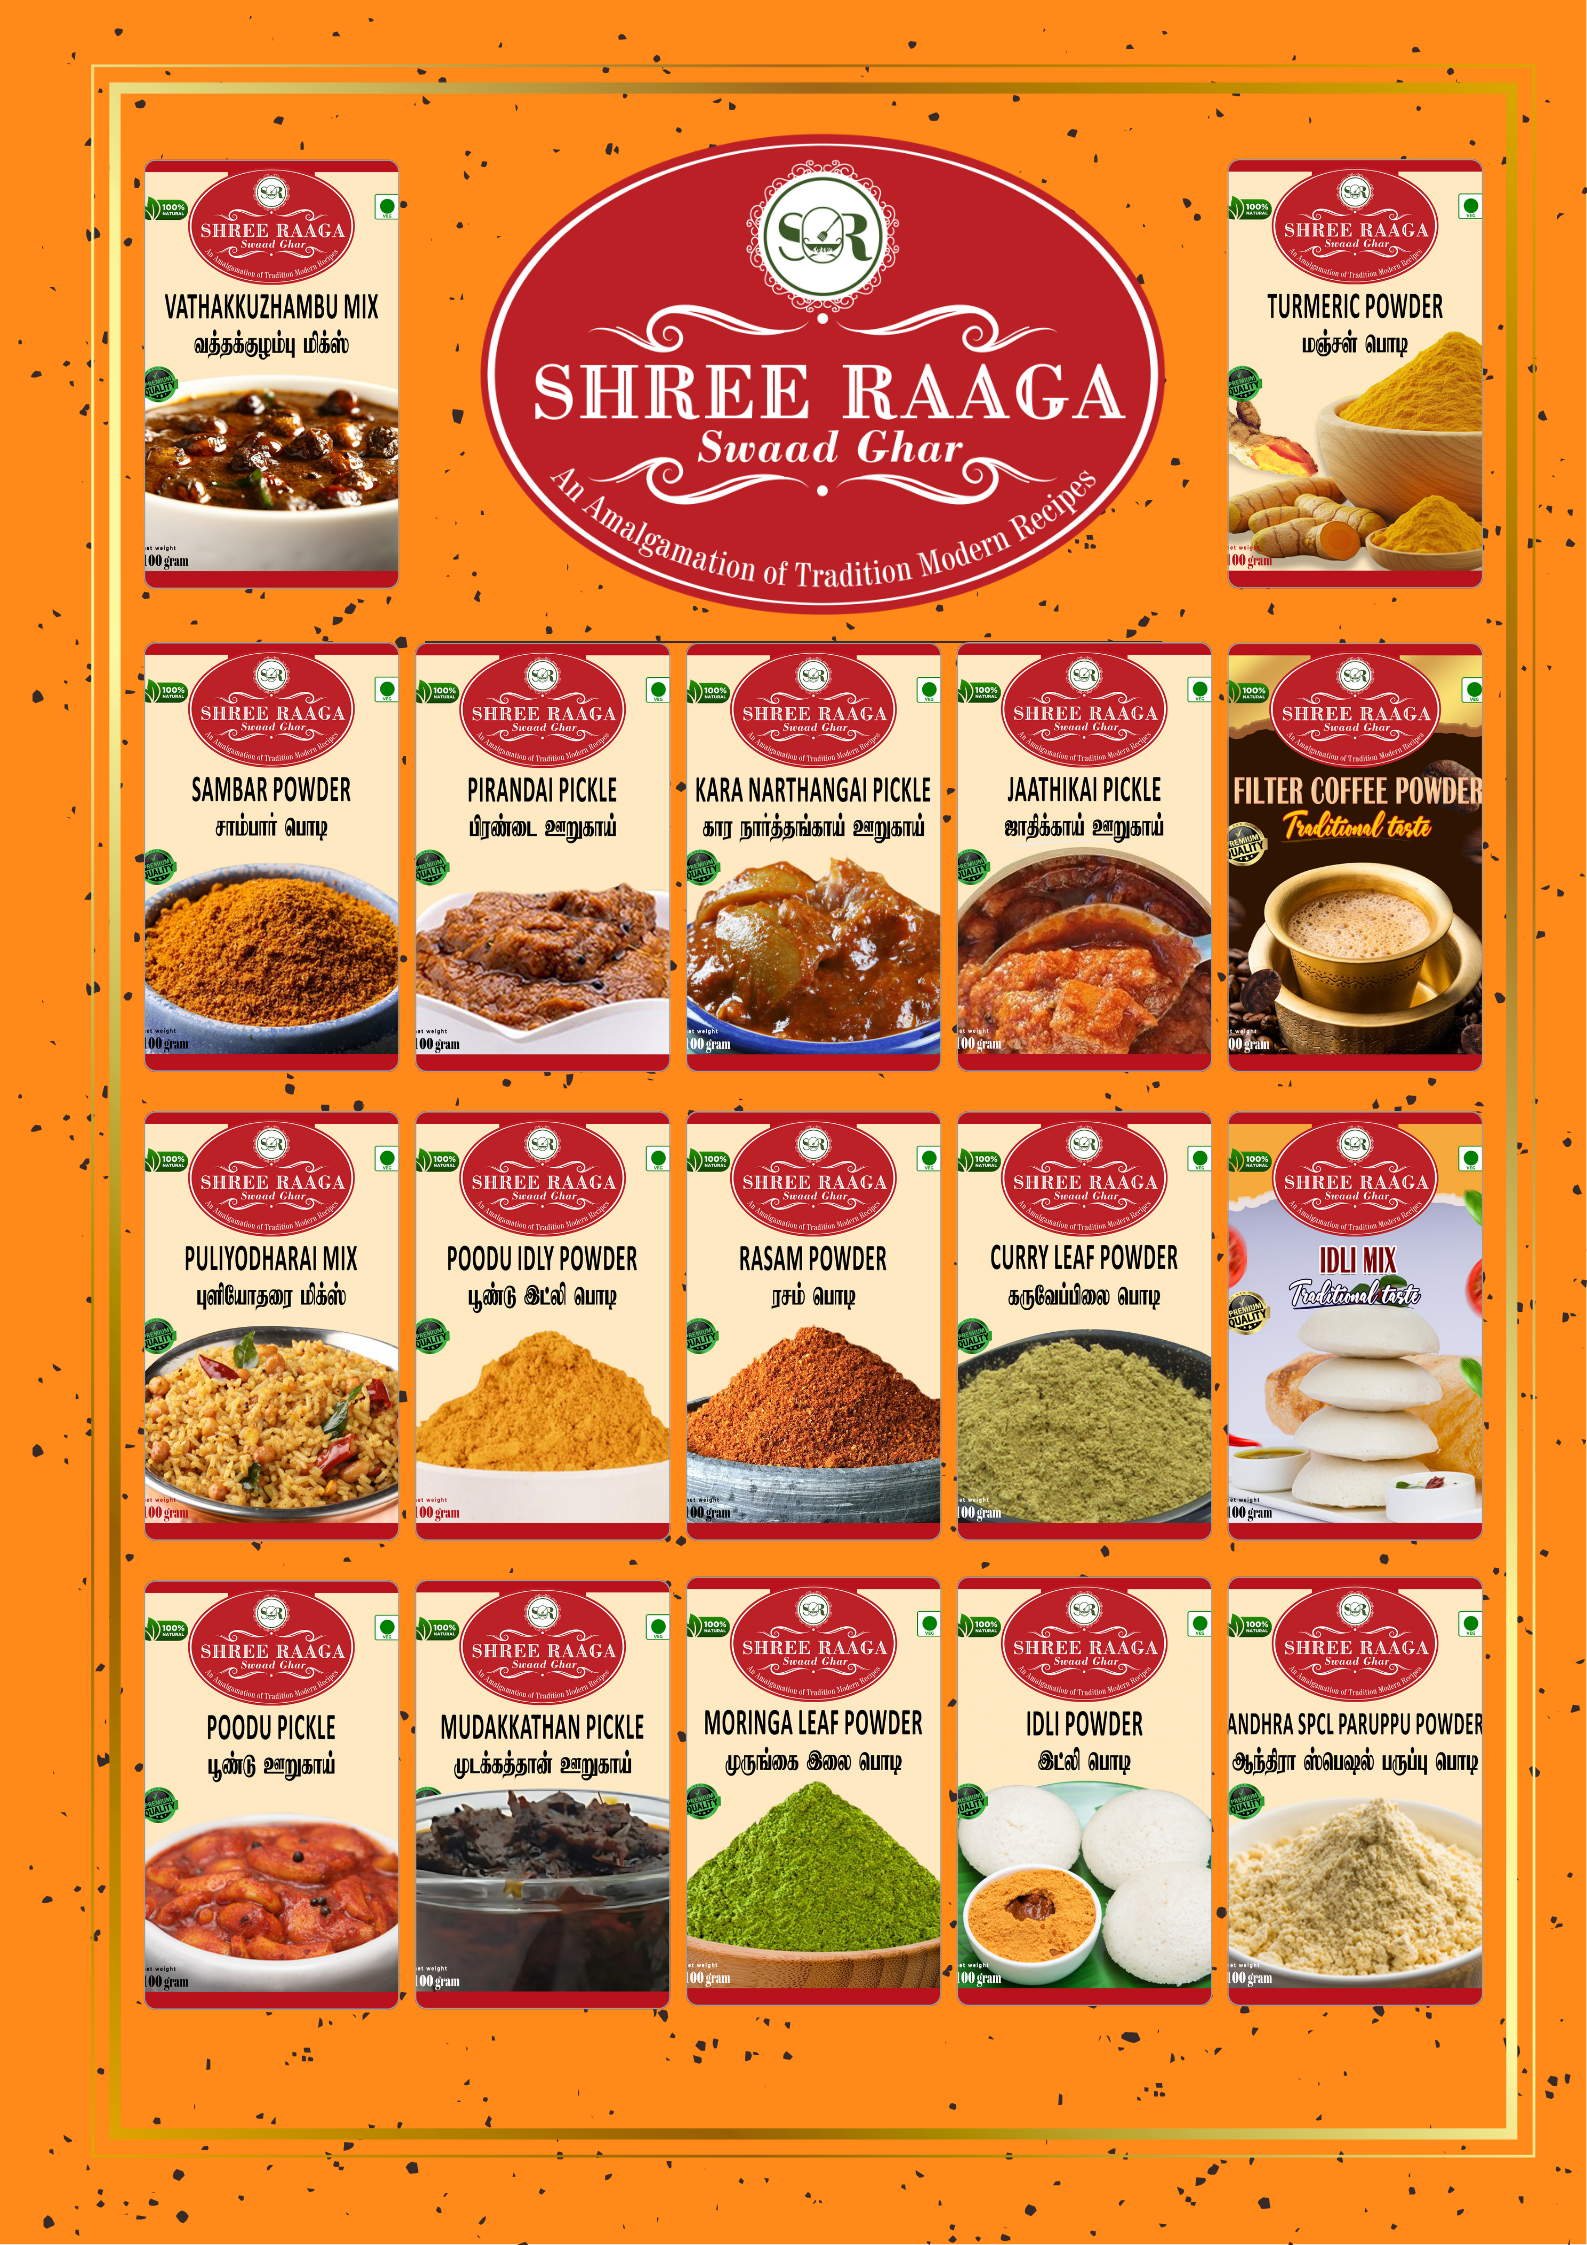
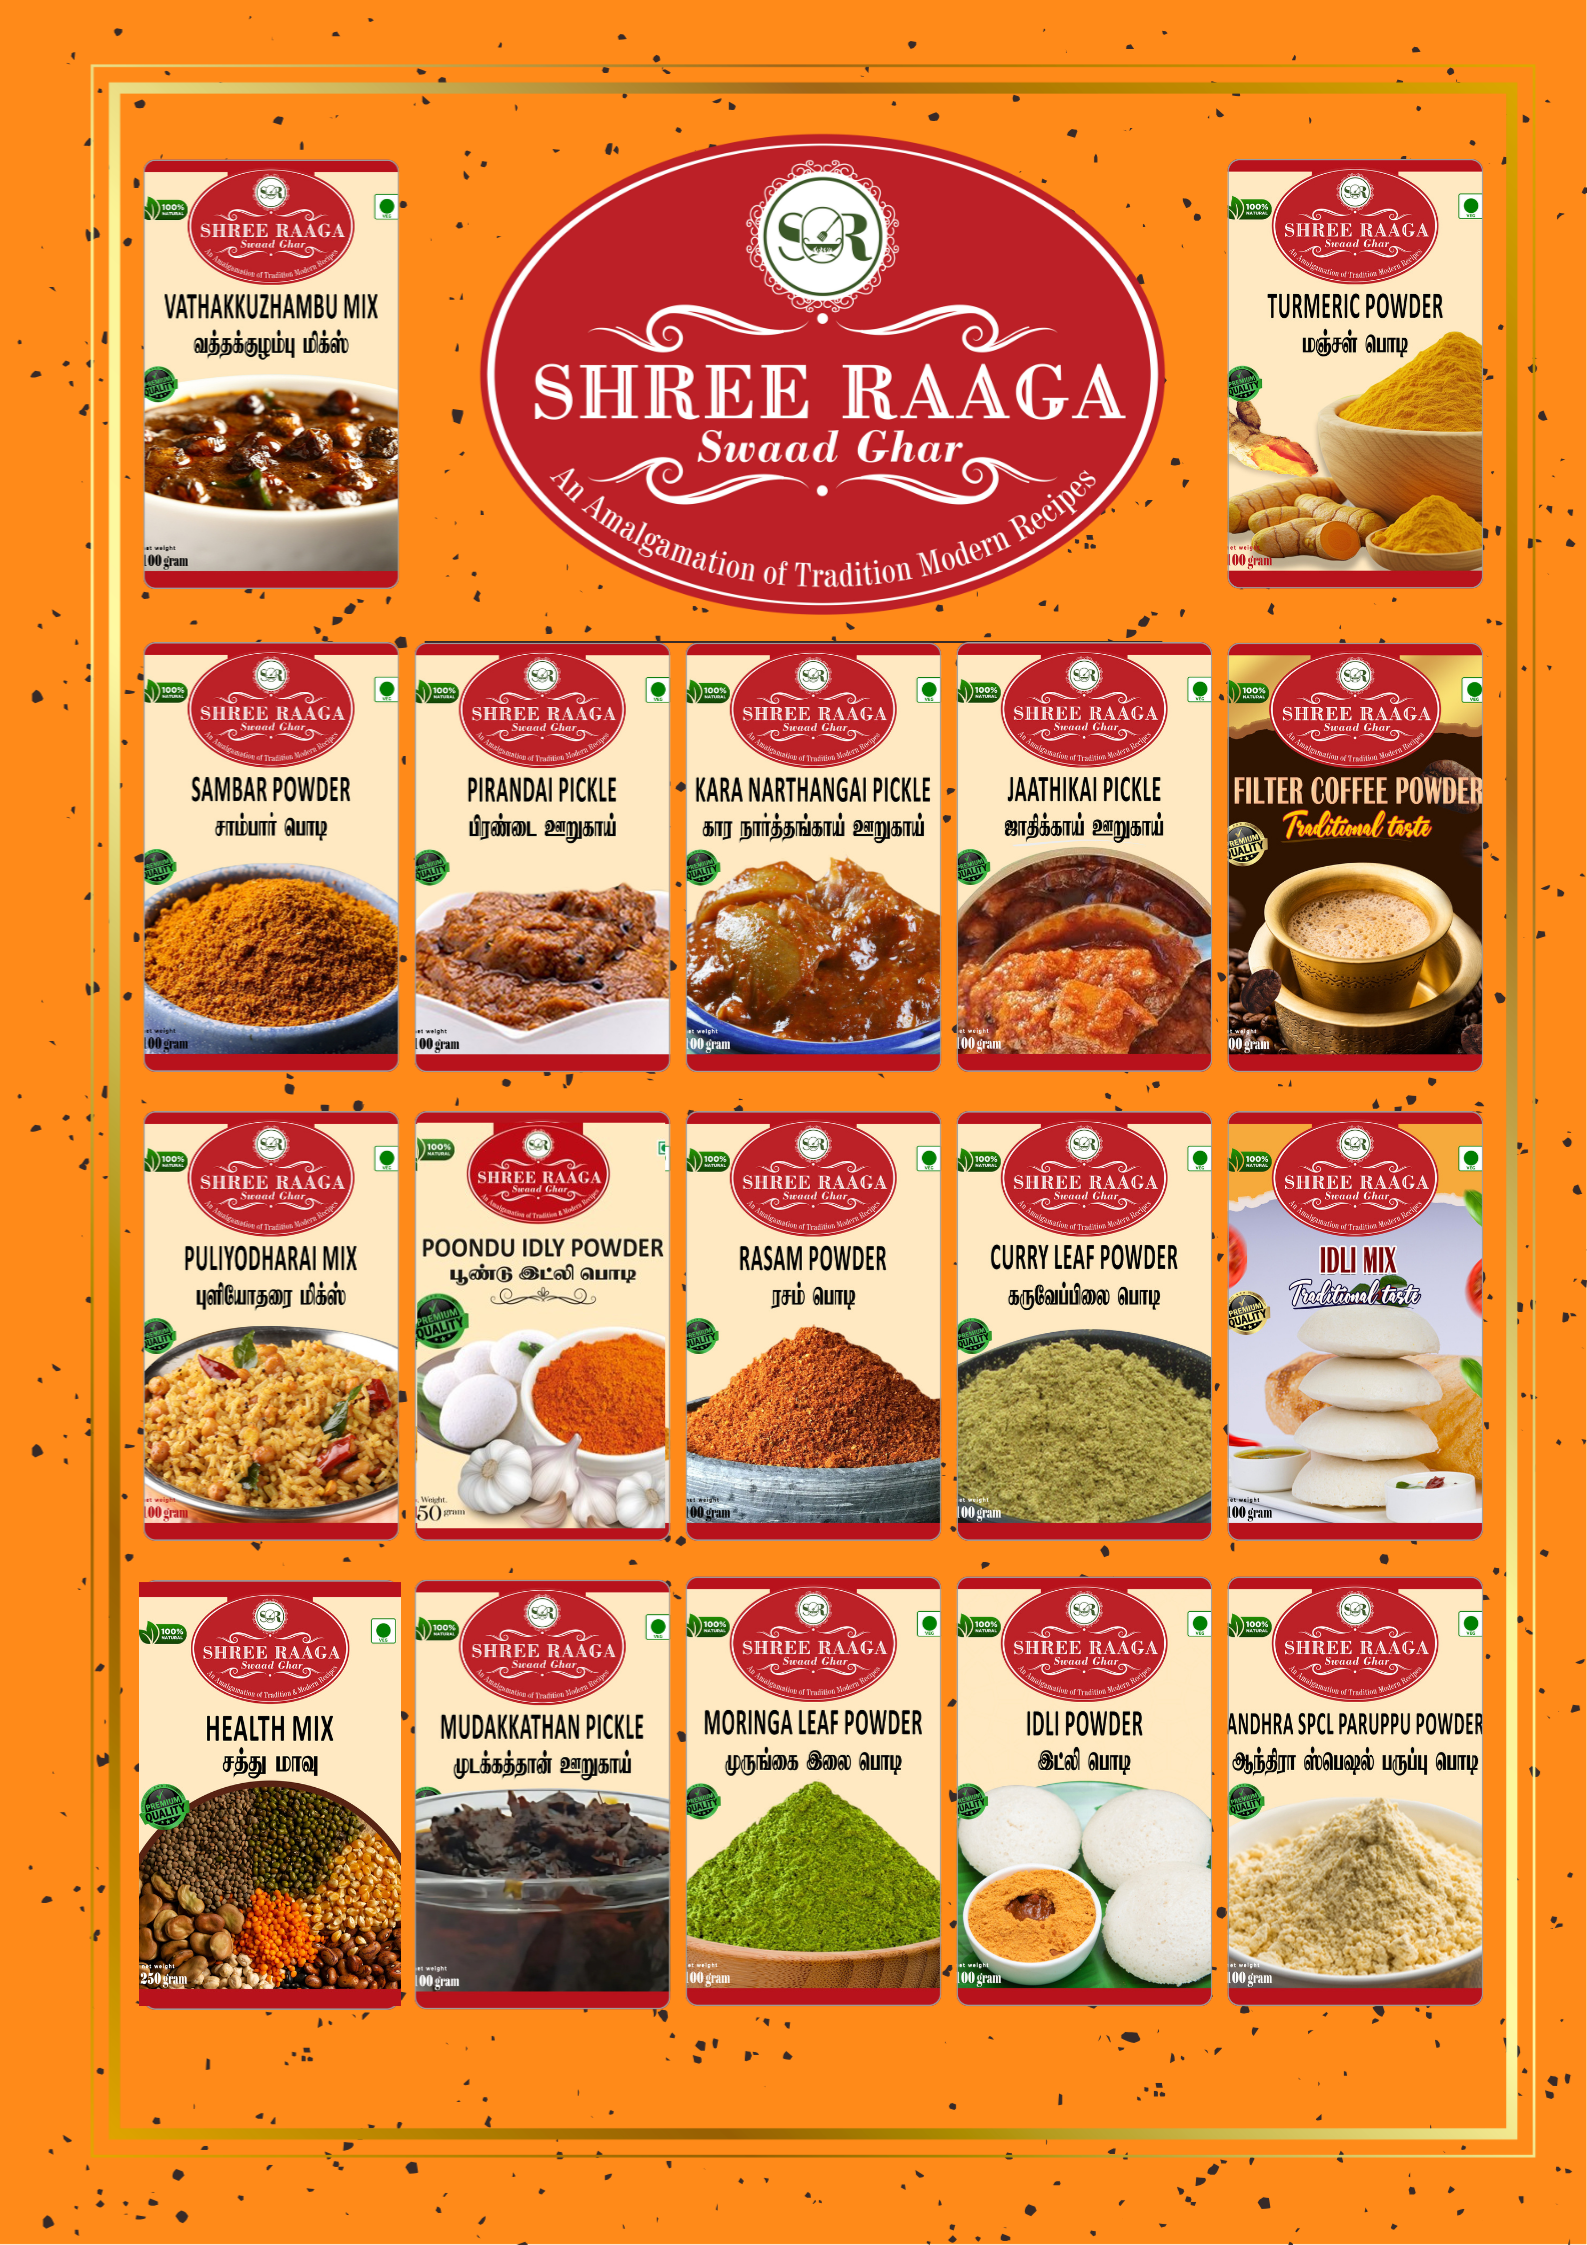
Update product names, images, and prices
- Renamed 'Kizhangu appalam' to 'Maravalli Kizhangu appalam'
- Added image override for Maravalli Kizhangu appalam
- Updated all product prices:
  * Puliyotharai Mix: 130
  * Vathakkuzhambu Mix: 130
  * Health Mix: 190 (250g), 370 (500g)
  * Turmeric Powder: 130
  * Poondu Idli Powder: 160
  * Andra Spl Paruppu Powder: 180
  * Coffee Powder: 500
  * Ulundhu appalam: 70
  * Rice appalam: 82
  * Maravalli Kizhangu appalam: 70
  * Vathal: 130

diff --git a/frontend/src/components/Homepage.tsx b/frontend/src/components/Homepage.tsx
@@ -33,6 +33,7 @@ import { getProductPrice, isProductAvailable } from '../data/availability';
 import { hasUserClaimedFirstOrderDiscount } from '../hooks/useFirstOrderPopup';
 import { getShortDescription } from '../data/shortDescriptions';
 import { getImageOverride } from '../data/imageOverrides';
+import mobileHero from '../../Images/100/Mobile.png';
 
 // Custom CSS for premium styling
 const customStyles = `
@@ -347,6 +348,19 @@ const Homepage: React.FC = () => {
     return item.includes(':') ? item.split(':')[0].trim() : item;
   };
 
+  // Helper to detect products that already have proper images & full flows
+  const hasImageProduct = (title: string): boolean => {
+    const lower = title.toLowerCase();
+    const isVathak = lower.includes('vathakkuzhambu') || lower.includes('vathakulambu');
+    const isPuliyo = lower.includes('puliyotharai') || lower.includes('puliodharai');
+    const isPoondu = (lower.includes('poondu') || lower.includes('poondhu')) && (lower.includes('idli') || lower.includes('idly'));
+    const isAndra = (lower.includes('andra') || lower.includes('andhra')) && (lower.includes('spl') || lower.includes('special')) && lower.includes('paruppu') && lower.includes('powder');
+    const isHealth = lower.includes('health mix') || lower.includes('healthmix');
+    const isTurmeric = (lower.includes('turmeric') || lower.includes('manjal')) && lower.includes('powder');
+    const isCoffee = lower.includes('coffee') && lower.includes('powder');
+    return isVathak || isPuliyo || isPoondu || isAndra || isHealth || isTurmeric || isCoffee;
+  };
+
   // Comprehensive image mapping - Updated to use ALL available images
   const productImageMap: { pattern: RegExp; src: string; category?: string }[] = [
     // Powder category - exact matches with available images
@@ -490,8 +504,8 @@ const Homepage: React.FC = () => {
         
         {/* Mobile hero image (hidden on desktop) */}
         <img 
-          src="/Items/Mobile1.jpeg" 
-          alt="Shree Raaga SWAAD GHAR - Mobile Optimized View" 
+          src={mobileHero} 
+          alt="Shree Raaga SWAAD GHAR - Mobile Product Collection" 
           className="block md:hidden max-w-full max-h-full w-auto h-auto object-contain"
           width={800}
           height={1200}
@@ -595,19 +609,8 @@ const Homepage: React.FC = () => {
                   });
                 });
                 
-                const hasImage = (title: string) => {
-                  const lower = title.toLowerCase();
-                  const isVathak = lower.includes('vathakkuzhambu') || lower.includes('vathakulambu');
-                  const isPuliyo = lower.includes('puliyotharai') || lower.includes('puliodharai');
-                  const isPoondu = (lower.includes('poondu') || lower.includes('poondhu')) && (lower.includes('idli') || lower.includes('idly'));
-                  const isAndra = (lower.includes('andra') || lower.includes('andhra')) && (lower.includes('spl') || lower.includes('special')) && lower.includes('paruppu') && lower.includes('powder');
-                  const isHealth = lower.includes('health mix') || lower.includes('healthmix');
-                  const isTurmeric = (lower.includes('turmeric') || lower.includes('manjal')) && lower.includes('powder');
-                  const isCoffee = lower.includes('coffee') && lower.includes('powder');
-                  return isVathak || isPuliyo || isPoondu || isAndra || isHealth || isTurmeric || isCoffee;
-                };
-
-                const products = allProducts.sort((a,b) => (hasImage(getItemTitle(b.item))?1:0) - (hasImage(getItemTitle(a.item))?1:0));
+                // Show only fully-ready products (with proper images) in the main carousel
+                const products = allProducts.filter((p) => hasImageProduct(getItemTitle(p.item)));
 
                 return products.map((product, index) => {
                   const itemTitle = getItemTitle(product.item);
@@ -785,6 +788,66 @@ const Homepage: React.FC = () => {
         </div>
       </section>
 
+      {/* Coming Soon Products Section */}
+      <section id="upcoming-products" className="py-12 sm:py-16 md:py-20 bg-gradient-to-b from-slate-50 via-white to-slate-50 relative overflow-hidden">
+        <div className="max-w-7xl mx-auto px-4 sm:px-6 lg:px-8">
+          <div className="text-center mb-8 sm:mb-10 md:mb-12">
+            <h2 className="text-2xl sm:text-3xl md:text-4xl font-bold text-gray-900 mb-3 sm:mb-4 tracking-tight">
+              Coming Soon Products
+            </h2>
+            <p className="text-sm sm:text-base md:text-lg text-gray-600 max-w-2xl mx-auto">
+              A sneak peek at traditional products that will be available on Shree Raaga SWAAD GHAR very soon.
+            </p>
+          </div>
+
+          <div className="grid grid-cols-1 sm:grid-cols-2 md:grid-cols-3 lg:grid-cols-4 gap-4 sm:gap-6">
+            {(() => {
+              const upcoming: Array<{ item: string; categoryTitle: string }> = [];
+              categories.forEach((category) => {
+                category.items.forEach((item) => {
+                  const title = getItemTitle(item);
+                  if (!hasImageProduct(title)) {
+                    upcoming.push({ item, categoryTitle: category.title });
+                  }
+                });
+              });
+
+              if (!upcoming.length) {
+                return (
+                  <div className="col-span-full text-center text-gray-600 text-sm">
+                    All products are currently available. Please check back later for new launches.
+                  </div>
+                );
+              }
+
+              return upcoming.map((product, index) => {
+                const title = getItemTitle(product.item);
+                return (
+                  <div
+                    key={`${product.categoryTitle}-${title}-${index}`}
+                    className="bg-white rounded-2xl shadow-lg border border-gray-100 p-4 sm:p-5 flex flex-col justify-between"
+                  >
+                    <div>
+                      <div className="flex items-start justify-between mb-3">
+                        <h3 className="text-base sm:text-lg font-semibold text-gray-900 leading-snug pr-2">
+                          {title}
+                        </h3>
+                        <span className="inline-flex items-center px-2.5 py-1 rounded-full text-xs font-semibold bg-gray-900 text-white">
+                          Coming Soon
+                        </span>
+                      </div>
+                      <p className="text-xs sm:text-sm text-gray-600 mb-2">
+                        {getShortDescription(title) || 'This product is getting ready and will be available for ordering soon.'}
+                      </p>
+                    </div>
+                    <p className="mt-2 text-xs text-gray-500 font-medium">Category: {product.categoryTitle}</p>
+                  </div>
+                );
+              });
+            })()}
+          </div>
+        </div>
+      </section>
 
 
       {/* Brand Story Section */}

diff --git a/frontend/src/components/CategoryPage.tsx b/frontend/src/components/CategoryPage.tsx
@@ -345,6 +345,19 @@ const [modalQuantities, setModalQuantities] = useState<{[key: string]: number}>(
     return item.includes(':') ? item.split(':')[0].trim() : item;
   };
   
+  // Helper to detect products that already have proper images & full flows
+  const hasImageProduct = (itemTitle: string): boolean => {
+    const lower = itemTitle.toLowerCase();
+    const isVathak = lower.includes('vathakkuzhambu') || lower.includes('vathakulambu');
+    const isPuliyo = lower.includes('puliyotharai') || lower.includes('puliodharai');
+    const isPoondu = (lower.includes('poondu') || lower.includes('poondhu')) && (lower.includes('idli') || lower.includes('idly'));
+    const isAndra = (lower.includes('andra') || lower.includes('andhra')) && (lower.includes('spl') || lower.includes('special')) && lower.includes('paruppu') && lower.includes('powder');
+    const isHealth = lower.includes('health mix') || lower.includes('healthmix');
+    const isTurmeric = (lower.includes('turmeric') || lower.includes('manjal')) && lower.includes('powder');
+    const isCoffee = lower.includes('coffee') && lower.includes('powder');
+    return isVathak || isPuliyo || isPoondu || isAndra || isHealth || isTurmeric || isCoffee;
+  };
+  
   const handleProductClick = (productName: string) => {
     // Use base price per product (e.g., 250g price for powders)
     const price = getProductPrice(productName);
@@ -536,8 +549,11 @@ const [modalQuantities, setModalQuantities] = useState<{[key: string]: number}>(
       
       // For now, weight filter is just for show - all products are 200g
       const matchesWeight = !weightFilter || weightFilter === '200g';
+
+      // Only show fully-ready products (with images and flows) in the main grid
+      const isAvailableProduct = hasImageProduct(itemTitle);
       
-      return matchesSearch && matchesWeight;
+      return matchesSearch && matchesWeight && isAvailableProduct;
     });
   }, [category, searchQuery, weightFilter]);
 

diff --git a/frontend/src/components/Navbar.tsx b/frontend/src/components/Navbar.tsx
@@ -157,6 +157,13 @@ const Navbar: React.FC = () => {
           >
             Contact
           </button>
+          <button
+            type="button"
+            onClick={() => scrollToSection('upcoming-products')}
+            className="hover:text-red-600 transition-colors duration-200"
+          >
+            Coming Soon
+          </button>
           
           {/* Permanent Claim Offer Button with Popup */}
           <div className="relative" ref={offerPopupRef}>
@@ -360,6 +367,16 @@ const Navbar: React.FC = () => {
               }}
             >
               Contact
+            </button>
+            <button 
+              type="button"
+              className="block w-full text-left px-4 py-2 text-gray-700 hover:text-red-600 hover:bg-gray-50 rounded-lg transition-colors duration-200"
+              onClick={() => {
+                scrollToSection('upcoming-products');
+                setIsMobileMenuOpen(false);
+              }}
+            >
+              Coming Soon
             </button>
             
             {/* Mobile Permanent Claim Offer Button with Popup */}

diff --git a/frontend/src/data/availability.ts b/frontend/src/data/availability.ts
@@ -87,9 +87,9 @@ export const getProductPrice = (name: string, weight?: Weight): number => {
     if (w === '250g') return 180;
   }
 
-  // 7. Coffee Powder – 500g: 15
+  // 7. Coffee Powder – 500g: 1
   if (isCoffee) {
-    if (w === '500g') return 15;
+    if (w === '500g') return 1;
   }
 
   // Fallback to base price (currently ₹200)
